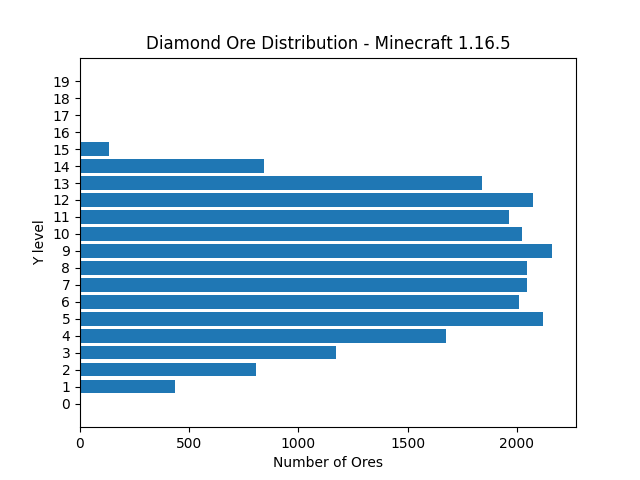
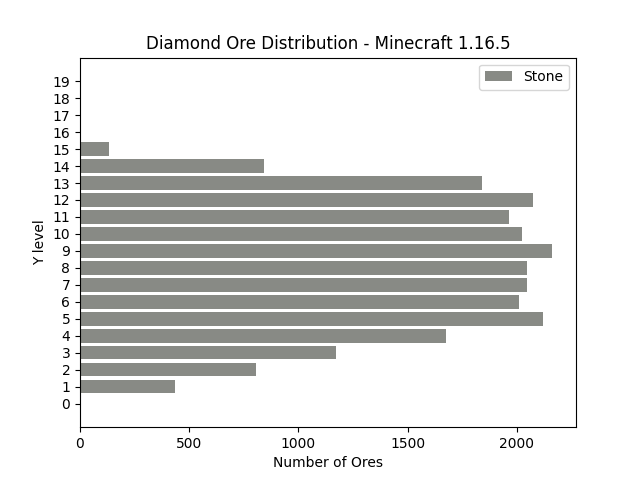
fixed deepslate

Changed region(s): [[0.125, 0.2812, 0.875, 0.8438], [0.75, 0.125, 0.875, 0.1875]]

diff --git a/task_extract.py b/task_extract.py
@@ -12,7 +12,8 @@ from noxitu.minecraft.map.global_palette import BLOCKS, GLOBAL_PALETTE
 from display import display_diamonds
 
 
-DIAMOND_ORE_MASK = np.array([name == 'minecraft:diamond_ore' for name in GLOBAL_PALETTE], dtype=bool)
+DIAMOND_ORE_MASK = np.array([name in ('minecraft:diamond_ore',) for name in GLOBAL_PALETTE], dtype=bool)
+DIAMOND_ORE2_MASK = np.array([name in ('minecraft:deepslate_diamond_ore',) for name in GLOBAL_PALETTE], dtype=bool)
 
 
 def compute_range(chunks):
@@ -52,6 +53,7 @@ def unpack_section(section_data, palette):
 def extract_diamonds(path, seed=0):
     loaded_chunks = []
     all_diamonds = []
+    all_diamonds2 = []
 
     for chunk_file in tqdm(os.listdir(path)):
         try:
@@ -135,14 +137,21 @@ def extract_diamonds(path, seed=0):
 
             all_diamonds.extend(diamond_list)
 
+            diamond_mask = DIAMOND_ORE2_MASK[chunk.reshape(256, 16, 16)]
+            diamond_list = np.argwhere(diamond_mask) + [0, 16*z, 16*x]
+
+            all_diamonds2.extend(diamond_list)
+
     diamonds = np.array(all_diamonds)
-    print(f'Found {len(diamonds)} diamond ores:')
+    diamonds2 = np.array(all_diamonds2)
+    print(f'Found {len(diamonds) + len(diamonds2)} diamond ores:')
 
     _, zs, xs = compute_range(loaded_chunks)
 
     os.makedirs('diamonds', exist_ok=True)
     np.savez(f'diamonds/{seed}.npz',
         diamonds=diamonds,
+        diamonds2=diamonds2,
         xs=xs,
         zs=zs
     )

diff --git a/task_display.py b/task_display.py
@@ -10,22 +10,38 @@ VERSION = '1.17'
 def main():
     H = 20
     ys = np.zeros((H,), dtype=int)
+    ys2 = np.zeros((H,), dtype=int)
 
     for filename in os.listdir(DIRECTORY):
         if filename == '0.npz':
             continue
-        diamonds = np.load(f'{DIRECTORY}/{filename}')['diamonds']
+        data = np.load(f'{DIRECTORY}/{filename}', allow_pickle=True)
+        diamonds = data['diamonds']
         np.add.at(ys, diamonds[:, 0], 1)
 
-    print(ys)
+        if 'diamonds2' in data:
+            diamonds2 = data['diamonds2']
+            np.add.at(ys2, diamonds2[:, 0], 1)
+
+    print(ys+ys2)
+    print(sum(ys+ys2))
+
     ax = plt.subplot()
-    ax.barh(np.arange(H), ys)
+
+    ax.barh(np.arange(H), ys, color='#888a85', label='Stone')
+
+    if sum(ys2) > 0:
+        ax.barh(np.arange(H), ys2, left=ys, color='#2e3436', label='Deepslate')
+
     ax.set_yticks(np.arange(H))
     ax.set_yticklabels(np.arange(H))
 
     ax.set_title(f'Diamond Ore Distribution - Minecraft {VERSION}')
     ax.set_xlabel('Number of Ores')
     ax.set_ylabel('Y level')
+
+    # ax.grid(True)
+    ax.legend()
     
     # plt.hist([str(y) for y in np.arange(H)], bins=H, weights=ys, orientation="horizontal")
     plt.show()

diff --git a/display.py b/display.py
@@ -1,0 +1,30 @@
+import matplotlib.pyplot as plt
+import numpy as np
+
+
+def display_chunk_list(chunks):
+    chunks = np.array(chunks)
+    print(f'Displying {len(chunks)} chunks.')
+
+    x0 = min(chunks[:, 0]) - 2
+    z0 = min(chunks[:, 1]) - 2
+
+    w = max(chunks[:, 0]) - x0 + 3
+    h = max(chunks[:, 1]) - z0 + 3
+
+    mask = np.zeros((h, w), dtype=int)
+    mask[chunks[:, 1]-z0, chunks[:, 0]-x0] = 1
+
+    plt.imshow(mask)
+    plt.show()
+
+
+def display_diamonds(diamonds, ranges, i1, i2):
+    canvas = np.zeros((ranges[i1].stop-ranges[i1].start, ranges[i2].stop-ranges[i2].start))
+
+    for p in diamonds:
+        canvas[p[i1]-ranges[i1].start, p[i2]-ranges[i2].start] += 1
+
+    import matplotlib.pyplot as plt
+    plt.imshow(canvas)
+    plt.show()

diff --git a/README.md b/README.md
@@ -5,11 +5,20 @@ On my laptop it took about 2 minutes to process single seed.
 # 1.17
 ![Distribution in 1.17](docs/1.17.png)
 
+#### Raw data
+
+    [   0  394  788 1189 1608 1859 1760 1850 1895 1754 1851 1864 1711 1704 1669 1010  251    0    0    0]
+
+Total of 23157 diamonds.
+
 # 1.16.5
 ![Distribution in 1.16.5](docs/1.16.5.png)
 
 #### Raw data
-[   0  434  806 1171 1673 2120 2008 2044 2047 2162 2025 1965 2074 1841  840  134    0    0    0    0]
+
+    [   0  434  806 1171 1673 2120 2008 2044 2047 2162 2025 1965 2074 1841  840  134    0    0    0    0]
+
+Total of 23344 diamonds.
 
 # Required files:
 ### /jars/minecraft_server.{version}.jar
